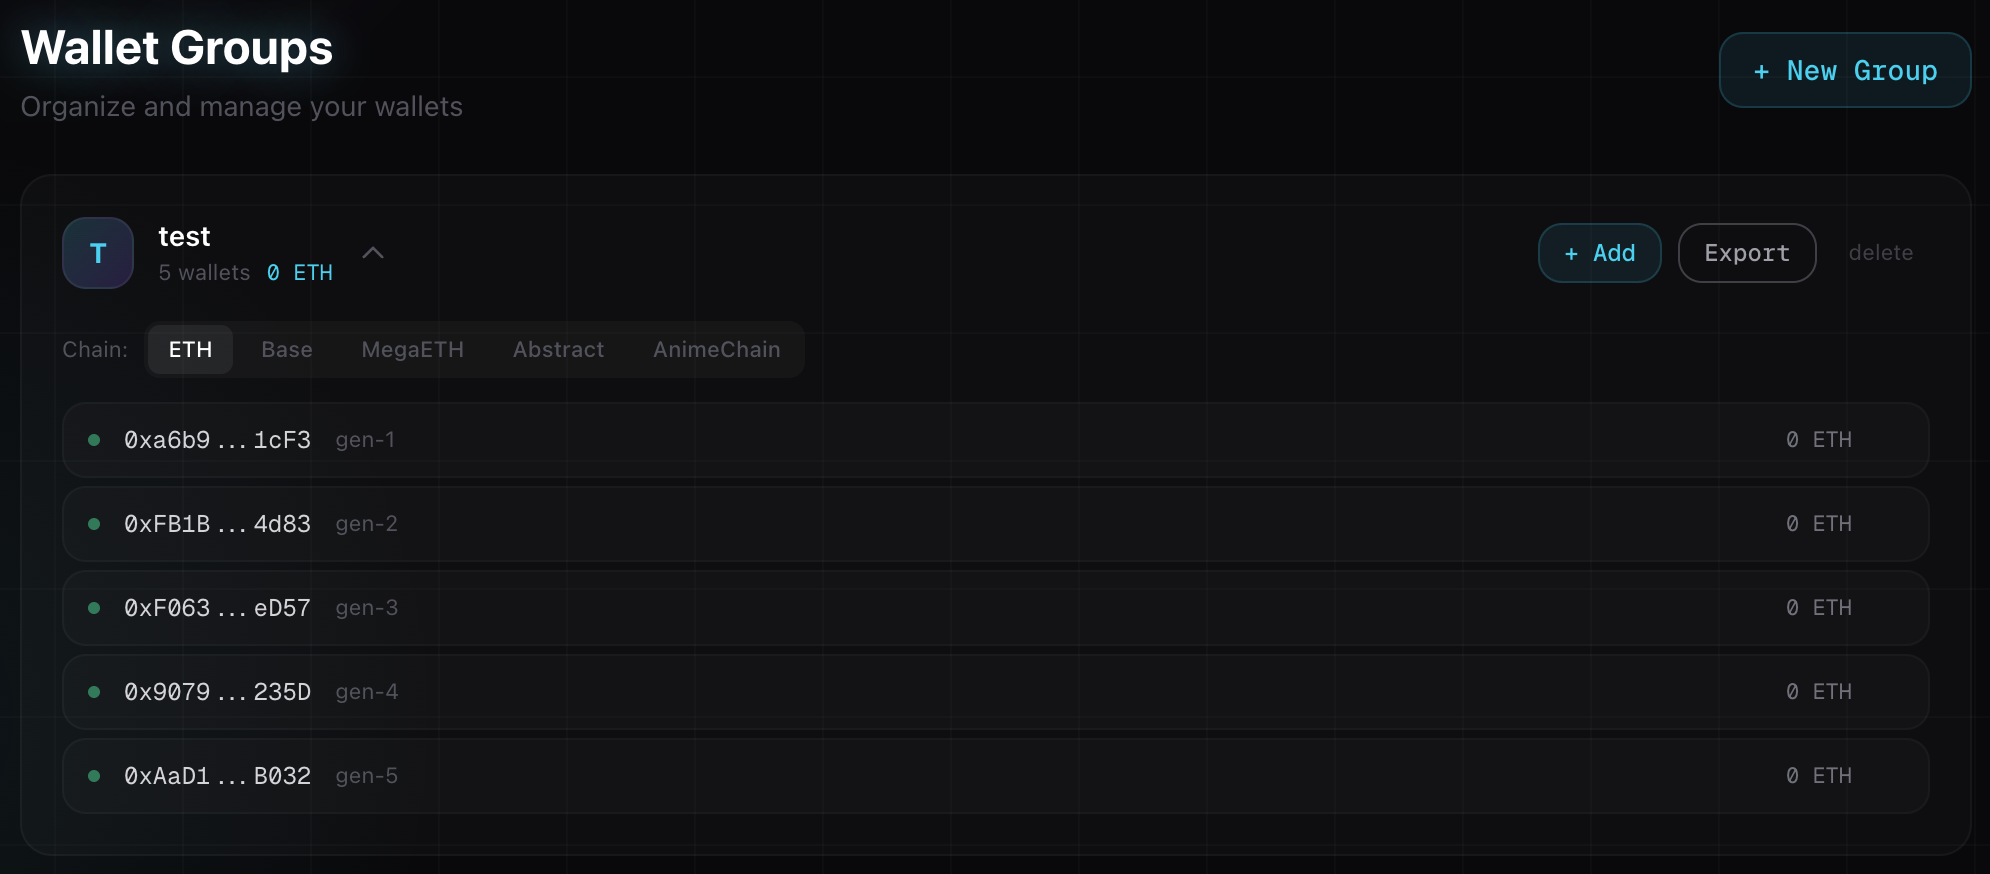
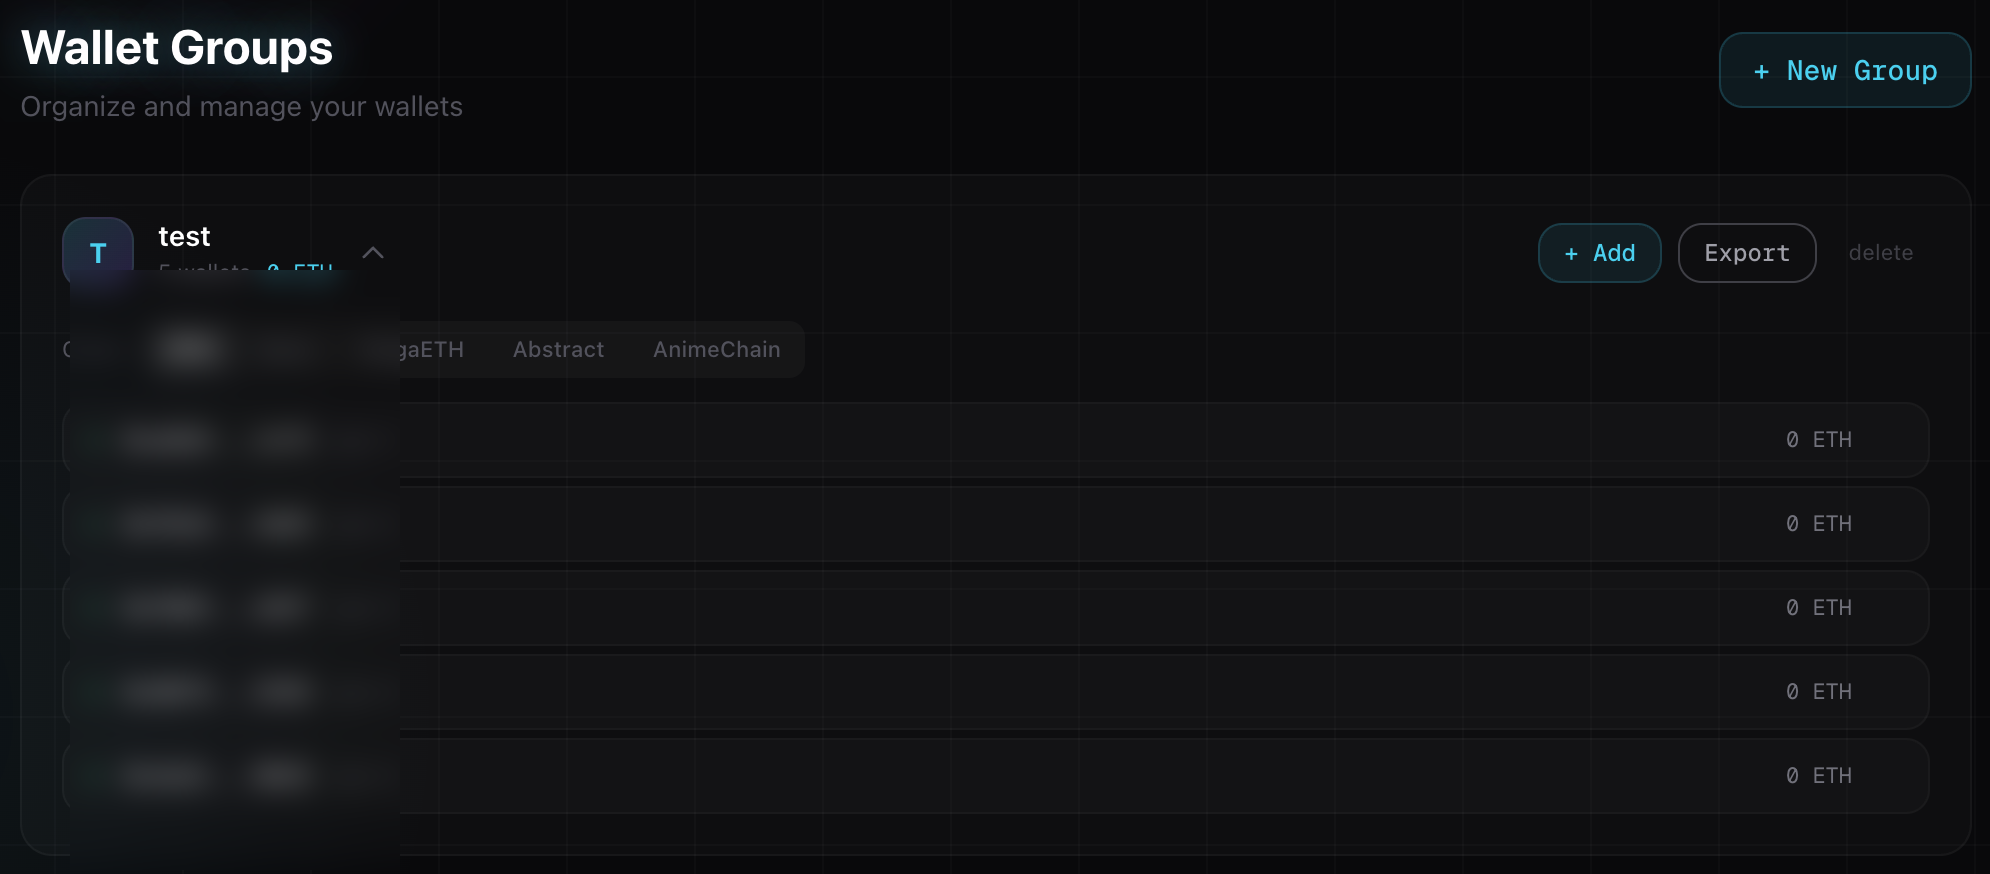
docs: blur wallet addresses in screenshots + add new images
Blurred sensitive data in screenshots:
- mint-success.png: wallet addresses + tx hashes blurred
- drain-results.png: destination wallet + addresses + tx hashes blurred
- wallets-group.png: wallet addresses blurred

New screenshots added:
- mint-success.png: 100/100 successful mint with transaction log
- toolbox-distribute-anime.png: distributing ANIME to 5 wallets
- drain-results.png: 50/50 wallets drained (49.71 ANIME recovered)

diff --git a/app/docs/toolbox/page.tsx b/app/docs/toolbox/page.tsx
@@ -17,8 +17,8 @@ export default function ToolboxPage() {
       </p>
 
       <figure className="screenshot">
-        <Image src="/docs/toolbox-distribute.png" alt="Toolbox distribute panel" width={1200} height={500} className="w-full rounded-lg" />
-        <figcaption>The Distribute panel — select a wallet group, choose chain, enter mother wallet key and amount per wallet</figcaption>
+        <Image src="/docs/toolbox-distribute-anime.png" alt="Toolbox distribute panel" width={1200} height={500} className="w-full rounded-lg" />
+        <figcaption>Distributing 1 ANIME to 5 wallets on AnimeChain — Total: 5.0000 ANIME</figcaption>
       </figure>
 
       <h3>How to Use</h3>
@@ -70,8 +70,8 @@ export default function ToolboxPage() {
       </p>
 
       <figure className="screenshot">
-        <Image src="/docs/toolbox-drain.png" alt="Toolbox drain panel" width={1200} height={400} className="w-full rounded-lg" />
-        <figcaption>The Drain panel — select group, chain, enter destination, scan balances, then drain all NFTs + native tokens</figcaption>
+        <Image src="/docs/drain-results.png" alt="Drain results showing 50/50 wallets drained" width={1200} height={900} className="w-full rounded-lg" />
+        <figcaption>Drain results — 49.71 ANIME recovered from 50/50 wallets on AnimeChain</figcaption>
       </figure>
 
       <h3>How It Works</h3>

diff --git a/app/docs/mint/page.tsx b/app/docs/mint/page.tsx
@@ -107,6 +107,11 @@ export default function MintPage() {
         wallets and fills in the correct mint parameters.
       </p>
 
+      <figure className="screenshot">
+        <Image src="/docs/mint-success.png" alt="Mint results 100/100 success" width={1200} height={400} className="w-full rounded-lg" />
+        <figcaption>All mints successful — 100/100 wallets minted with transaction hashes and explorer links</figcaption>
+      </figure>
+
       <div className="callout callout-info">
         <strong>After minting</strong>, head to <strong>Portfolio</strong> to verify your NFTs arrived,
         or use <strong>Toolbox &rarr; Drain</strong> to collect everything back to your main wallet.
